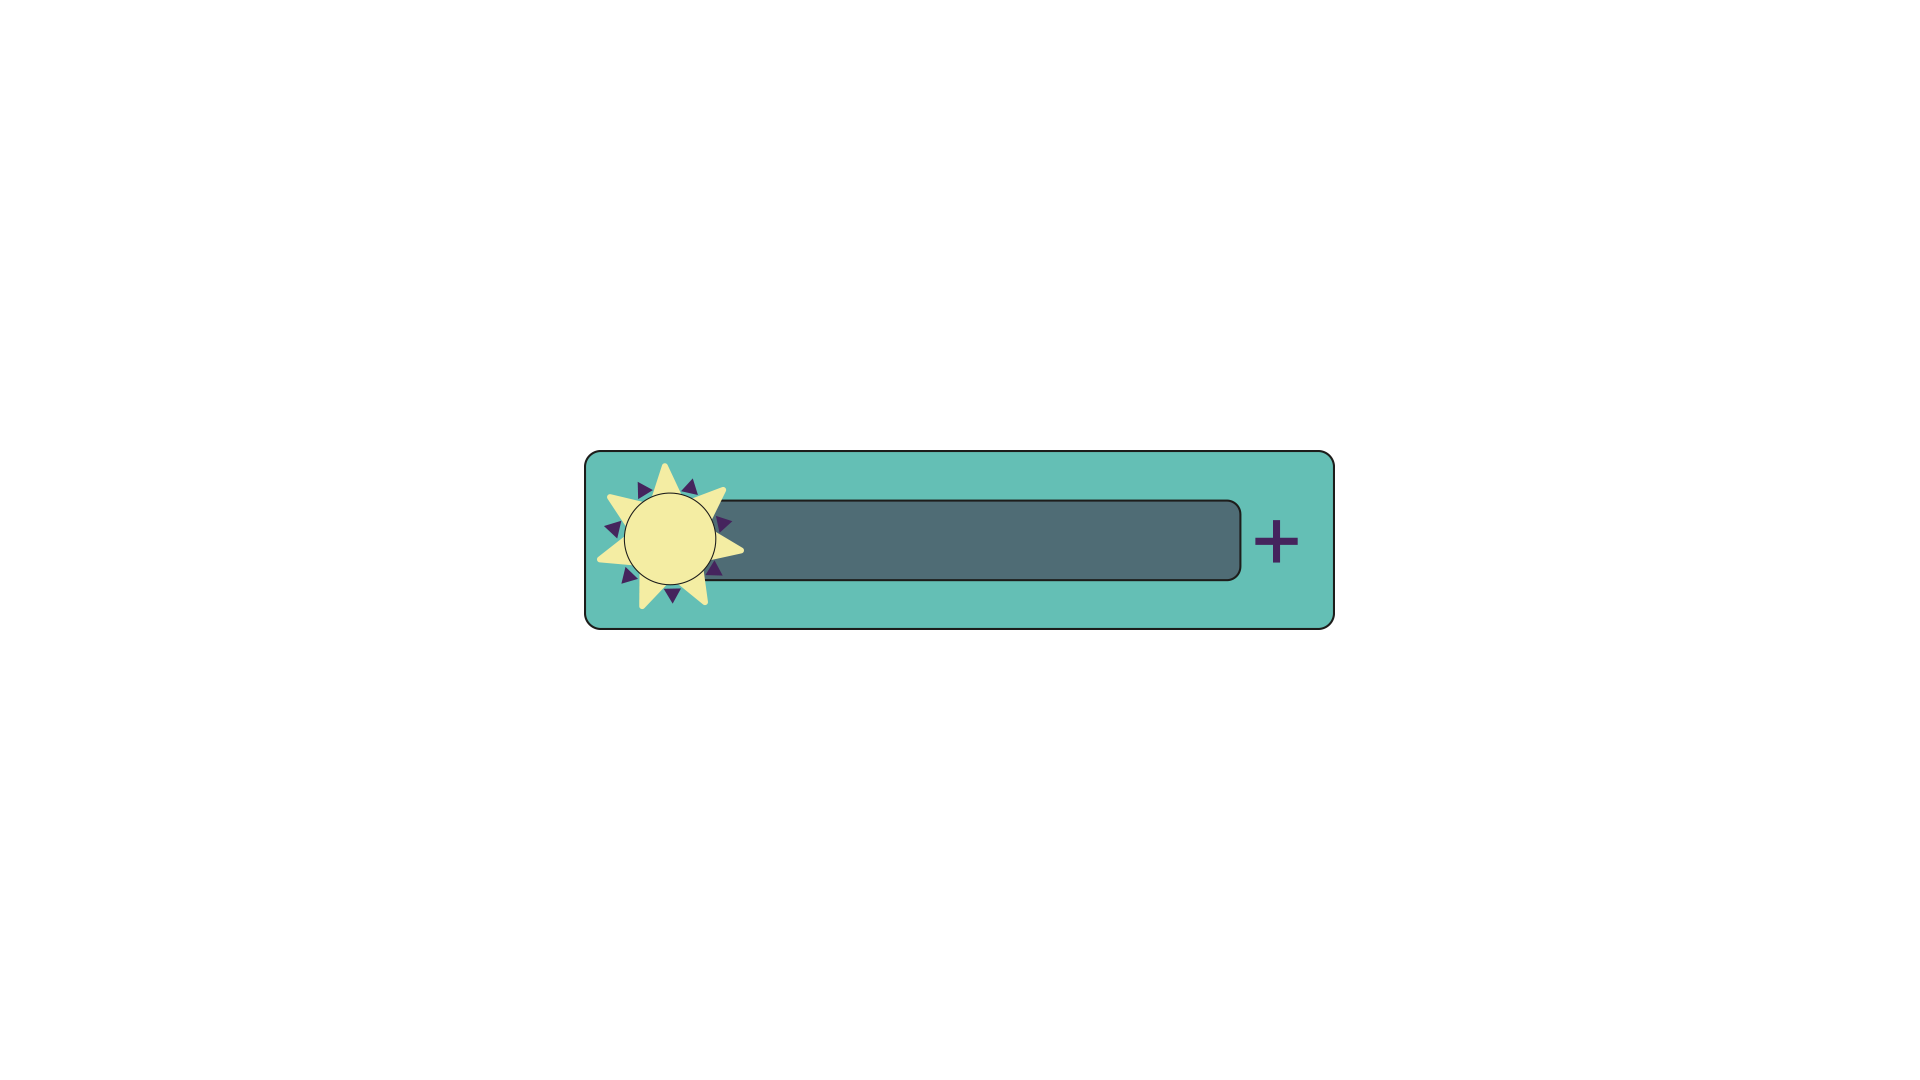
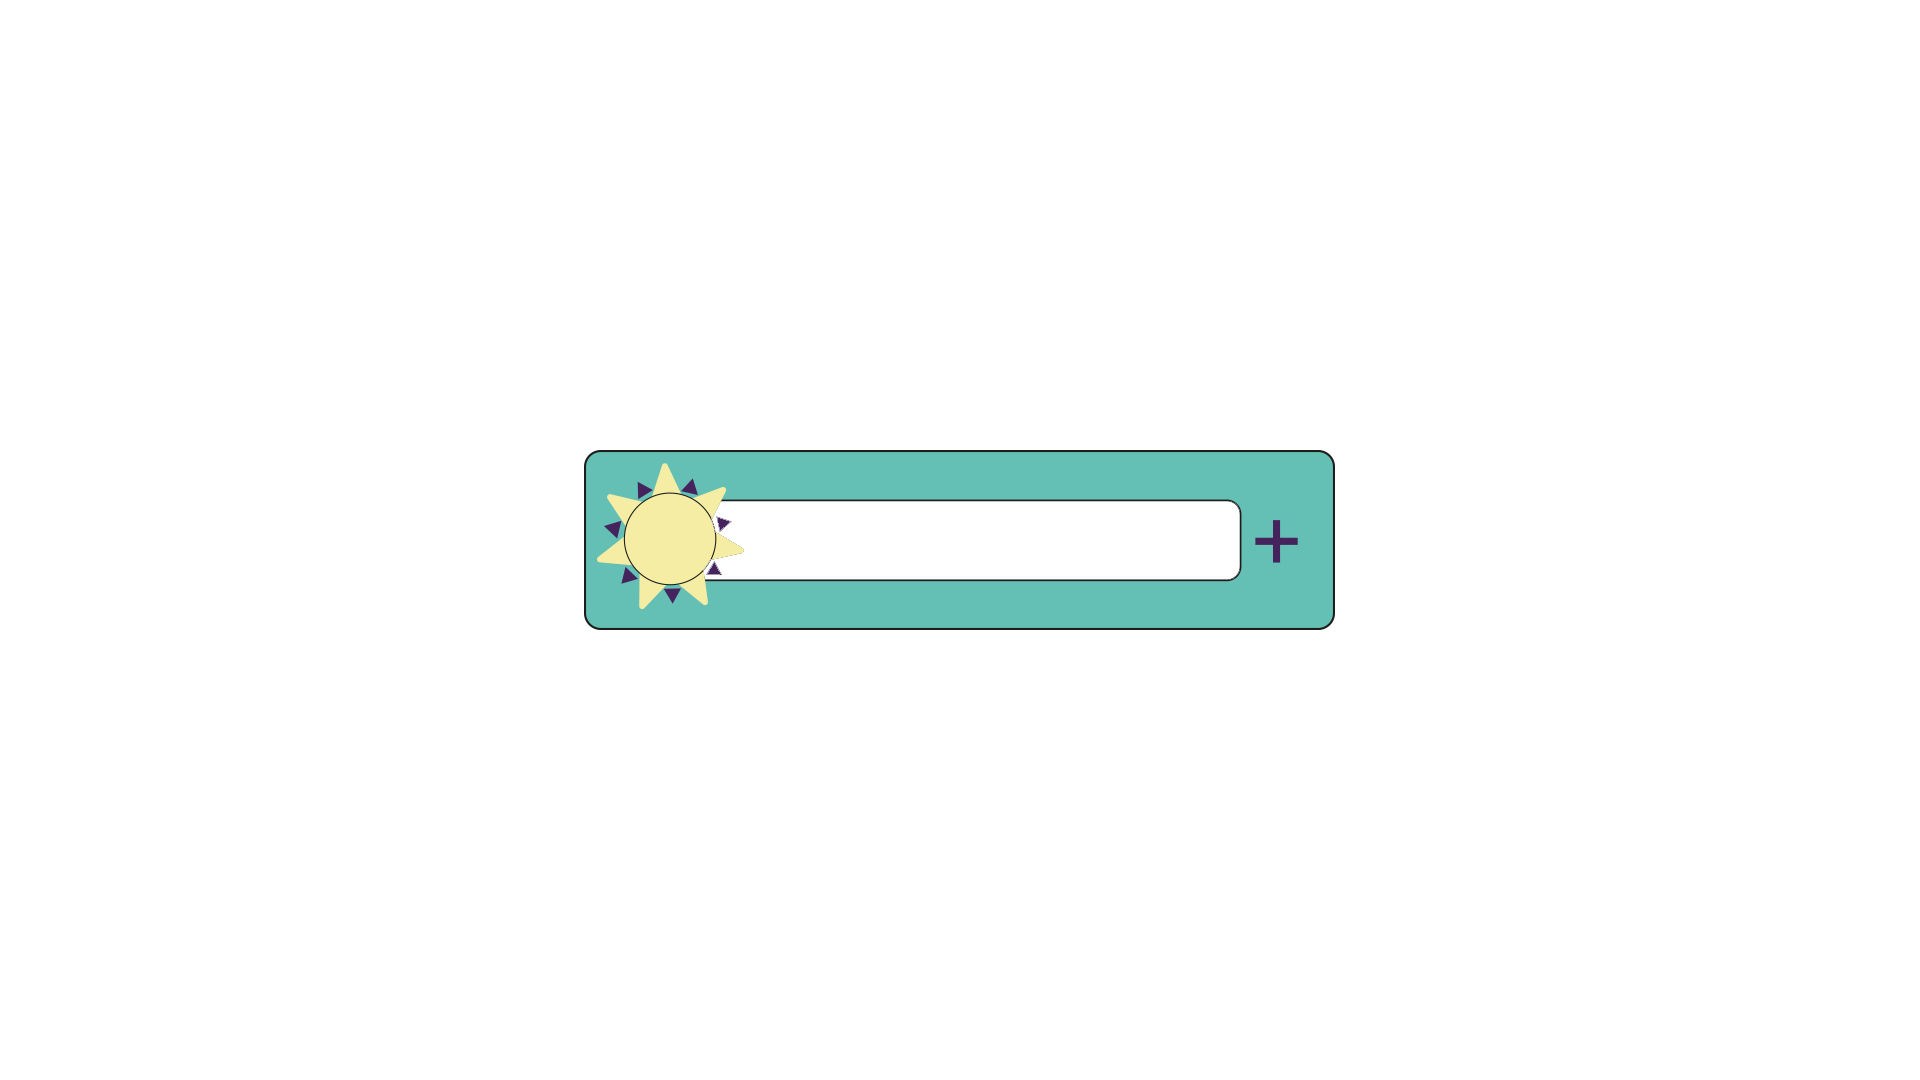
Barre Vie

Changed region(s): [[0.3438, 0.4583, 0.6562, 0.55]]

diff --git a/Assets/Scripts/DeplacementPersonnage.cs b/Assets/Scripts/DeplacementPersonnage.cs
@@ -1,6 +1,7 @@
 using System.Collections;
 using System.Collections.Generic;
 using UnityEngine;
+using UnityEngine.UI;
 
 public class DeplacementPersonnage : MonoBehaviour
 {
@@ -8,6 +9,7 @@ public class DeplacementPersonnage : MonoBehaviour
     public GameObject camera3emePersonne;
     public GameObject personnage;
     public GameObject pivotRotation;
+    public Image barreVie;
     float vitesseDeplacement;
     public float hauteurSaut;
     public float ajoutGravite;
@@ -71,6 +73,16 @@ public class DeplacementPersonnage : MonoBehaviour
             {
                 GetComponent<Animator>().SetBool("épée", true);
                 Invoke("EnleverAnimationEpee", 0.2f);
+            }
+
+            ////////////////////////// ZONE TESTE BARRE DE VIE /////////////
+
+
+            barreVie.fillAmount += 0.0001f;
+            if (Input.GetKeyDown("b"))
+            {
+
+                barreVie.fillAmount -= 0.1f;
             }
         }
 
